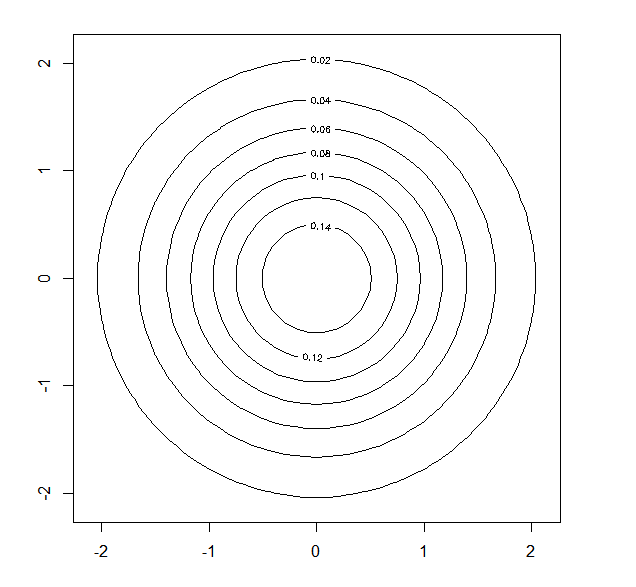
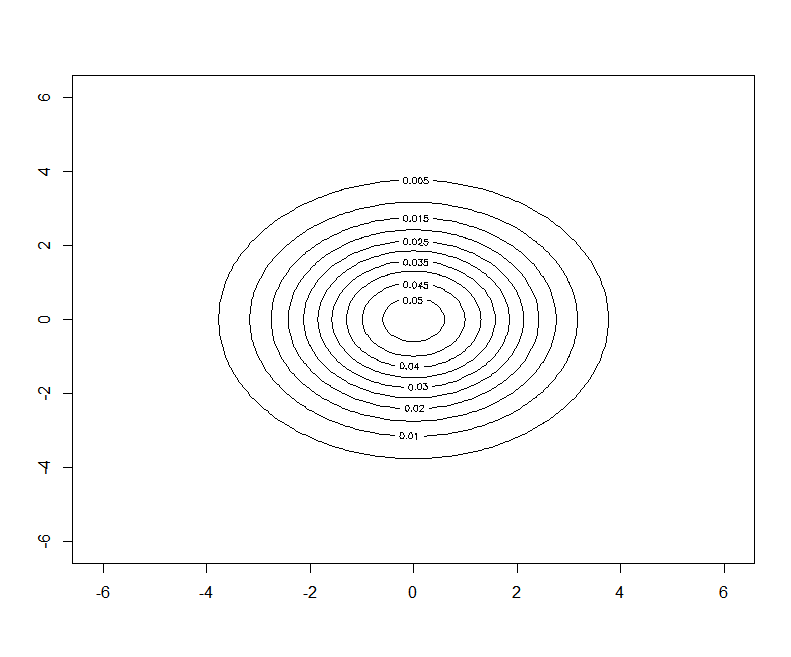
Обновил 5 лабу (+скрины, +описание)

diff --git a/lab5/README.md b/lab5/README.md
@@ -13,6 +13,12 @@
 ## Одинаковая дисперсия
 ![](Screenshot_17.png)
 
+## Признаки некоррелированы
+![](Screenshot_19.png)
+
+## Признаки коррелированы
+![](Screenshot_18.png)
+
 ## Реализация на R
 ```r
 drawLines <- function(center, cv) {
@@ -36,14 +42,20 @@ drawLines <- function(center, cv) {
     1 / (2*pi*sqrt(det)) * exp(-0.5 * (x^2*A + y^2*B + x*y*C + x*D + y*E + F))
   }
   
-  X <- seq(-2-0.1, 2+0.1, 0.1)
-  Y <- seq(-2-0.1, 2+0.1, 0.1)
+  X <- seq(-6-0.1, 6+0.1, 0.1)
+  Y <- seq(-6-0.1, 6+0.1, 0.1)
   Z <- outer(X, Y, func)
   
   contour(X, Y, Z)
 }
 
-par(pty="s")
+par(pty="m")
 
-drawLines(c(0, 0), matrix(c(1, 0, 0, 1), 2, 2))
+#n = 2
+#cent = (0; 0)
+#cv = 1, 0
+
+#drawLines(c(0, 0), matrix(c(3, 0, 0, 3), 2, 2))
+drawLines(c(0, 0), matrix(c(6, 0, 0, 2), 2, 2))
+#drawLines(c(0, 0), matrix(c(4, -4, 0, 4), 2, 2))
 ```
